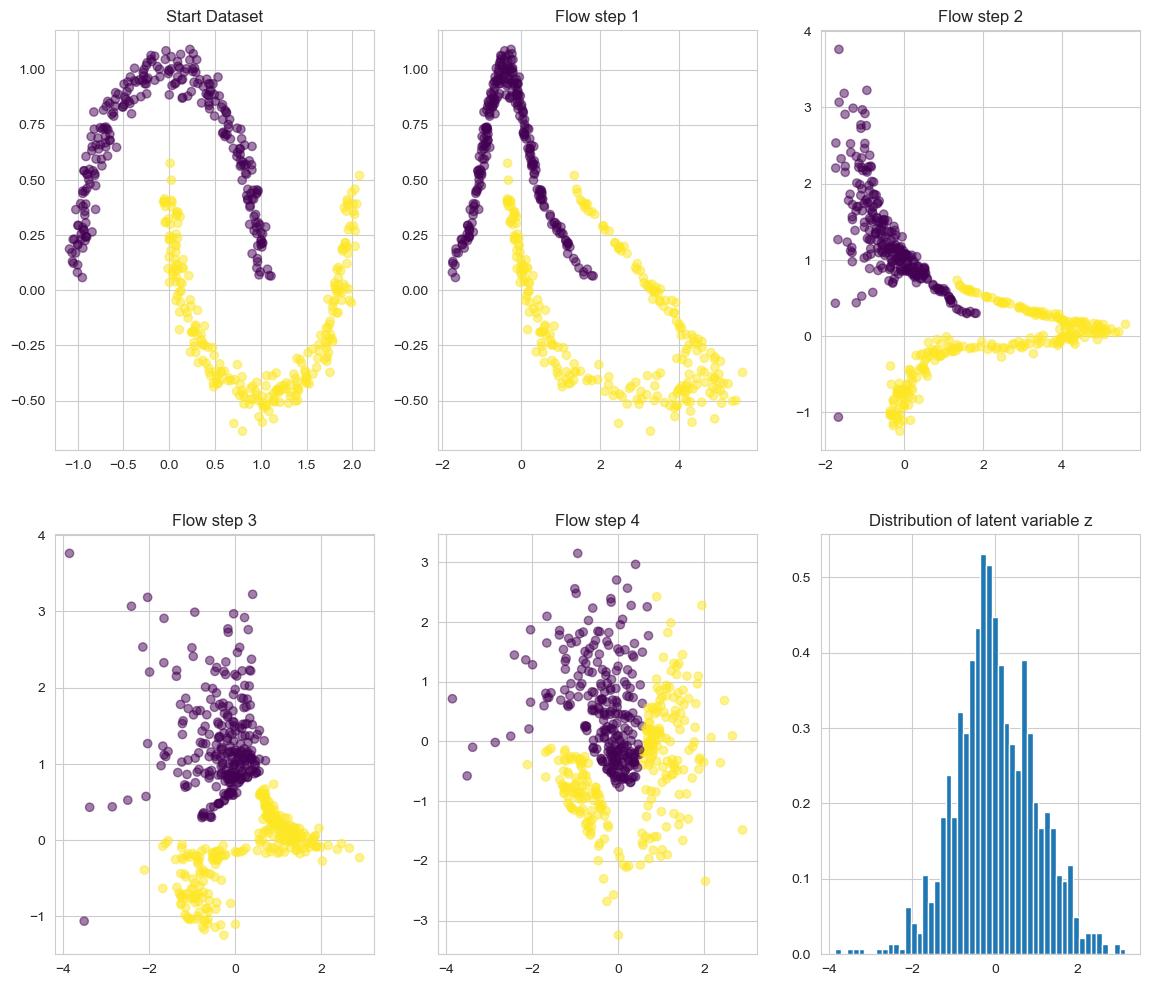
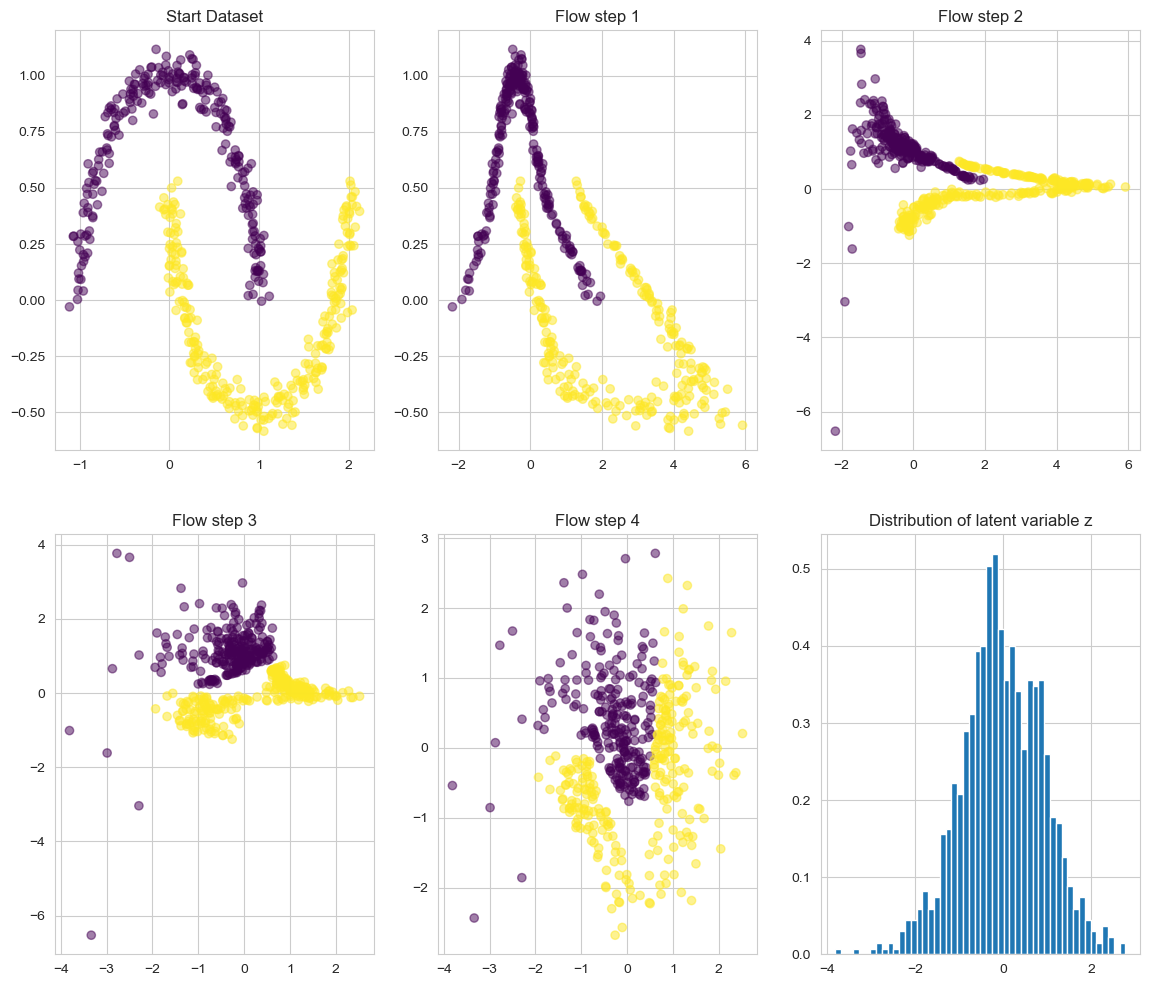
finish normalizing flow training 2d

diff --git a/_sass/jekyll-theme-minimal.scss b/_sass/jekyll-theme-minimal.scss
@@ -86,9 +86,8 @@ table {
 }
 
 th, td {
-  text-align:left;
   padding:5px 10px;
-  border-bottom:1px solid #e5e5e5;
+  text-align: center;
 }
 
 dt {
@@ -278,4 +277,13 @@ footer {
 
 .MathJax{
   color: #111;
+}
+
+figure {
+    margin: 0;
+}
+
+figcaption {
+    font-size: small;
+    text-align: center;
 }

diff --git a/_posts/2023-11-17-normalizing-flows.md b/_posts/2023-11-17-normalizing-flows.md
@@ -205,29 +205,29 @@ Finally, Fig. [[2.c]](#fig:1d_dataset) demonstrates how the learned model is abl
 
 <div id="fig:1d_dataset">
     <table>
-    <tr>
-        <td style="text-align: center">
-            <figure style="margin: 0px;">
+    <tr style="border-bottom: 1px solid #e5e5e5;">
+        <td style="border-right: 1px solid #e5e5e5;">
+            <figure>
             <img src="{{site.baseurl}}/assets/img/norm_flow/1d/dataset.png" style="max-width: 380px">
             <figcaption style="font-size:small;">
                 Figure 2.a: Training dataset build by sampling 750 elements from two distinct gaussian distributions.
             </figcaption>
             </figure>
         </td>
-        <td style="text-align: center">
-            <figure style="margin: 0px;">
+        <td>
+            <figure>
             <img src="{{site.baseurl}}/assets/img/norm_flow/1d/fit-model.png" style="max-width: 500px">
-            <figcaption style="font-size:small;">
+            <figcaption>
                 Figure 2.b: A normalizing flow fitted to the given dataset to learn $p(x)$. The normalizing flow is composed by a beta distributon as a prior and as a gaussian mixture model with 4 different component as a flow.
             </figcaption>
             </figure>
         </td>
     </tr>
     <tr>
-        <td colspan="2" style="text-align: center">
-            <figure style="margin: 0px;">
+        <td colspan="2">
+            <figure>
             <img src="{{site.baseurl}}/assets/img/norm_flow/1d/learned-transformation.png">
-            <figcaption style="font-size:small;">
+            <figcaption>
                 Figure 2.c: Learned normalizing flow from the unknown distribution $p(x)$ to the choosen prior $p(z)$.
             </figcaption>
             </figure>
@@ -241,25 +241,25 @@ Full code is contained in the following [notebook](https://github.com/andompesta
 
 ### 2D Training Example
 
-Let assume that we have a more complex dataset, for example assume that we would like to map samples from the famous 2 Moon dataset shown in Fig. [[3.a]](#fig:2d_dataset) into a latent variable following a Gaussian distribution.
-In this case using the cumulative distribution function of a Gaussian Mixture model might not be expressive enough.
-Neural Network are powerfull function approximators, however they do not guarantee any of the contitions required by a normalizing flow, moreover computing the determinant of a linear layer is computantionally expencive.
+Consider a more intricate dataset, such as the famous 2 Moon dataset depicted in Fig. [[3.a]](#fig:2d_dataset). The objective here is to map samples from this dataset into a latent variable that conforms to a Gaussian distribution.
+
+In this context, relying solely on the cumulative distribution function of a Gaussian Mixture model as NF formulation may not provide the necessary expressiveness. While Neural Networks serve as powerful function approximators, they do not inherently guarantee the conditions required by a normalizing flow. Furthermore, computing the determinant of a linear layer within a neural network is computationally expensive.
 
 <div id="fig:2d_dataset">
     <table>
     <tr>
-        <td style="text-align: center">
-            <figure style="margin: 0px;">
-            <img src="{{site.baseurl}}/assets/img/norm_flow/2d/dataset.png" style="max-width: 400px">
-            <figcaption style="font-size:small;">
+        <td style="border-right: 1px solid #e5e5e5;">
+            <figure>
+            <img src="{{site.baseurl}}/assets/img/norm_flow/2d/dataset.png" style="max-width: 380px">
+            <figcaption>
                 Figure 3.a: 2D Moon dataset. 
             </figcaption>
             </figure>
         </td>
-        <td style="text-align: center">
-            <figure style="margin: 0px;">
-            <img src="{{site.baseurl}}/assets/img/norm_flow/2d/2d_moon_flow.gif" style="max-width: 430px">
-            <figcaption style="font-size:small;">
+        <td>
+            <figure>
+            <img src="{{site.baseurl}}/assets/img/norm_flow/2d/2d_moon_flow.gif" style="max-width: 400px">
+            <figcaption>
                 Figure 3.b: Gif of all the steps needed by the normalization flow to map the 2 Moon dataset into a Gaussian distribution.
             </figcaption>
             </figure>
@@ -269,24 +269,48 @@ Neural Network are powerfull function approximators, however they do not guarant
 </div>
 
 
-In the recent years, **Coupling layers** [[3]](#ref:density-estimation) emerged as a good solution for NF as they are both efficent at sampling and training time; while providing competitive performances.
-The idea is to split the input variables of the i-th layer in equaly sized groups:
-- the first group of input variables ($z_i[0], ..., z_i[d]$) is considered constant during the i-th layer[^1].
-- the second group of parameter ($z_{i}[d+1], ..., z_{i}[D]$) is transformed by a NN that depends only on $z_{i}[\leq d]$.
+In recent years, **Coupling layers** [[3]](#ref:density-estimation) have emerged as effective solutions for Normalizing Flows. They prove efficient both during sampling and training, while delivering competitive performances. The fundamental idea involves splitting the input variables of the i-th layer into equally sized groups:
 
+- The first group of input variables ($z_i[0], ..., z_i[d]$) is considered constant during the i-th layer[^1].
+- The second group of parameters ($z_{i}[d+1], ..., z_{i}[D]$) undergoes transformation by a Neural Network that depends solely on $z_{i}[\leq d]$.
 
-Matematically we can express that tranformation applied on all the input variables on the i-th layer as:
+Mathematically, we can represent the transformation applied to all input variables in the i-th layer as:
 
 $$
 \begin{align*}
     z_{i+1}[0], ..., z_{i+1}[d] & = z_{i}[0], ..., z_{i}[d] \\
-    z_{i+1}[d+1], ..., z_{i+1}[D] & = f(z_{i}[0], ..., z_{i}[d]; \theta_{i})
+    d_{i}[d+1], ..., d_{i}[D], t_{i}[d+1], ..., t_{i}[D] & = f(z_{i}[0], ..., z_{i}[d]; \theta_{i}) \\
+    z_{i+1}[d+1], ..., z_{i+1}[D] & = (z_{i}[d+1] \cdot d_{i}[d+1]) + t_{i}[d+1], ..., (z_{i}[D] \cdot d_{i}[D]) + t_{i}[D]
 \end{align*}
 $$
 
-where $f(\cdot; \theta_i)$ is any neural network. Intuitively a coupling layer is as an autoregressive layer in which the autoregressive mask only allow $z_{i+1}[>d]$ to depend on $z_{i}[\leq d]$.  
-The beauty of coupling layers stand in the ease of inverting their transformation as well as in the computation of the determinand.
-By construction the Jaccobiam matrix of any such layer is lower triangular, more precisely it follow the structure:
+where $f(\cdot; \theta_i)$ is any neural network. Intuitively, a coupling layer is akin to an autoregressive layer, where the autoregressive mask only permits $z_{i+1}[>d]$ to depend on $z_{i}[\leq d]$.  
+As shown in Fig. 4, the beauty of coupling layers lies in the ease of inverting their transformation. Given the initial conditiokn $z_{i+1}[\leq d] = z_{i}[\leq d]$, it is possible to derive the affine parameters $d_{i}[> d]$ and $t_{i}[> d]$ by directly applying $f(\cdot; \theta_i)$ to $z_{i+1}[\leq d]$.
+
+<div id="fig:2d_dataset">
+    <table>
+    <tr>
+        <td style="border-right: 1px solid #e5e5e5;">
+            <figure>
+            <img src="{{site.baseurl}}/assets/img/norm_flow/coupling_layer-forward.png" style="max-width: 380px">
+            <figcaption>
+                Figure 4.a: Forward pass. 
+            </figcaption>
+            </figure>
+        </td>
+        <td>
+            <figure>
+            <img src="{{site.baseurl}}/assets/img/norm_flow/coupling_layer-backward.png" style="max-width: 380px">
+            <figcaption>
+                Figure 4.b: Backward pass.
+            </figcaption>
+            </figure>
+        </td>
+    </tr>
+    </table>
+</div>
+
+By construction, the Jacobian matrix of any such layer is lower triangular, following the structure:
 
 $$
 J_{z_{i+1}}(z_{i}) = \begin{bmatrix} 
@@ -295,18 +319,63 @@ J_{z_{i+1}}(z_{i}) = \begin{bmatrix}
 \end{bmatrix}.
 $$
 
-where $\mathbf{I}$ is an identity matrix of size $d \times d$, $\mathbf{O}$ is a zeros matrix of size $d \times (D-d)$, $\mathbf{A}$ is a full matrix of size $(D-d) \times d$ and $\mathbf{D}$ is a diagonal matrix of shape $(D-d) \times (D-d)$.
-The determinant of such matrix is formed by the product of the diagonal elements of $\mathbf{D}$; thus being efficent to compute.
+Here, $\mathbf{I}$ is an identity matrix of size $d \times d$, $\mathbf{O}$ is a zeros matrix of size $d \times (D-d)$, $\mathbf{A}$ is a full matrix of size $(D-d) \times d$ and $\mathbf{D}$ is a diagonal matrix of shape $(D-d) \times (D-d)$.
+The determinant of such a matrix is formed by the product of the diagonal elements of $\mathbf{D}$, making it efficient to compute.
 
+Fig. [5](#ref:2d_normalizing_flow) illustrates the dynamics of a NF trained on a 2 Moon dataset. Note how the final latent space (step 4) conforms to a Gaussian distribution.
 
 <div id="fig:2d_normalizing_flow" style="text-align: center; align: center;">
-    <figure style="margin: 0px;">
+    <figure>
     <img src="{{site.baseurl}}/assets/img/norm_flow/2d/training-process.png">
-    <figcaption style="font-size:small;">
-        Figure 4: Normalizing flow from a 2 moon dataset to the guassian prior visualized step by step. Bottom right picture shows the distribution of the final latent variable extracted by the flow, demonstrating that it is clrearly Gaussian.
+    <figcaption>
+        Figure 5: Normalizing flow from a 2 moon dataset to the guassian prior visualized step by step. Bottom right picture shows the distribution of the final latent variable extracted by the flow, demonstrating that it is clrearly Gaussian.
     </figcaption>
     </figure>
 </div>
+
+
+Finally, a simple implementation of a coupling layer in pytorch is proviceded as follow:
+
+```python
+class CouplingFlow(nn.Module):
+    def __init__(
+        self,
+        dim: int,
+        hidden_dim: int,
+        mask: Tensor,
+    ) -> None:
+        super().__init__()
+        assert dim % 2 == 0, "dim must be even"
+        assert dim == mask.size(-1), "mask dimension must equal dim"
+
+        self.dim = dim
+        self.hidden_dim = hidden_dim
+        self.register_buffer("mask", mask)
+
+        self.net = nn.Sequential(
+            nn.Linear(dim, hidden_dim),
+            nn.LeakyReLU(),
+            nn.Linear(hidden_dim, dim),
+        )
+
+    def forward(self, x: Tensor) -> Tensor:
+        x_masked = x * self.mask
+        output = self.net(x_masked)
+        log_d, t = output.chunk(2, dim=-1)
+        z = x_masked + ((1 - self.mask) * (x * torch.exp(log_d) + t))
+        return z
+
+    def log_abs_det_jacobian(
+        self,
+        x: Tensor,
+        z: Tensor,
+    ) -> Tensor:
+        x_masked = x * self.mask
+        log_d, t = self.net(x_masked).chunk(2, dim=-1)
+        return log_d.sum(dim=-1)
+```
+
+
 
 # Credits
 
@@ -314,7 +383,7 @@ The content of this post is based on the lectures and code of [Pieter Abbeel](ht
 Moreover, I want to credit [Lil'Long](https://lilianweng.github.io/posts/2018-10-13-flow-models/) and [Eric Jang](https://blog.evjang.com/2018/01/nf1.html) for their amazing tutorials. For example, the pioneering work done by [Dinh et. al.](#ref:nice) is the first to leverage transformations with triangular matrix for efficent determinatnt computation.
 
 
-[^1]: Here we use the notation $z_{i}[d]$ as indicating the $d$ dimention of the latent variable at the i-th layer of a flow ($z_{i}$).
+[^1]: Here we introduce the notation $z_{i}[d]$ as indicating the $d$ dimention of the latent variable at the i-th layer of a flow ($z_{i}$).
 # Refences
 
 <ol>

diff --git a/_posts/2023-01-05-finetune.md b/_posts/2023-01-05-finetune.md
@@ -209,13 +209,13 @@ Fig. [[3]](#fig:overfit) displays a good example of how the metrics should look 
     <figure>
         <figure>
             <img src="{{site.baseurl}}/assets/img/finetune/train_overfit.png" style="max-width: 100%">
-            <figcaption style="font-size:small;">
+            <figcaption>
                 Figure 3.a: Training loss and accuracy for a single batch.
             </figcaption>
         </figure>
         <figure>
             <img src="{{site.baseurl}}/assets/img/finetune/eval_overfit.png" style="max-width: 100%">
-            <figcaption style="font-size:small;">
+            <figcaption>
                 Figure 3.b: Validation loss and accuracy for a single batch.
             </figcaption>
         </figure>
